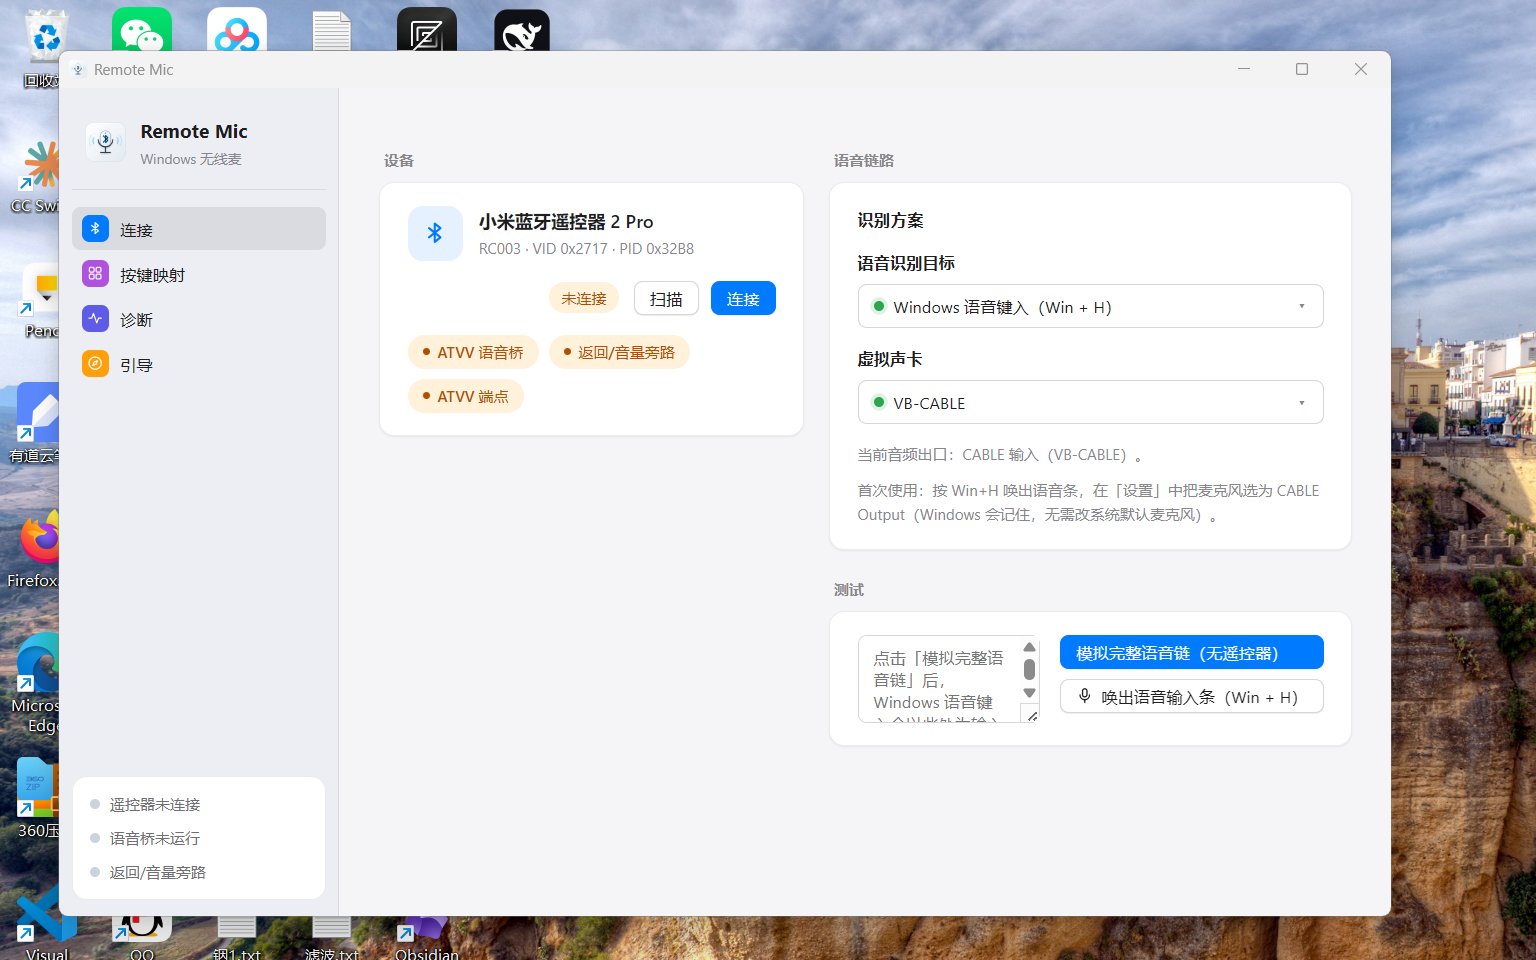
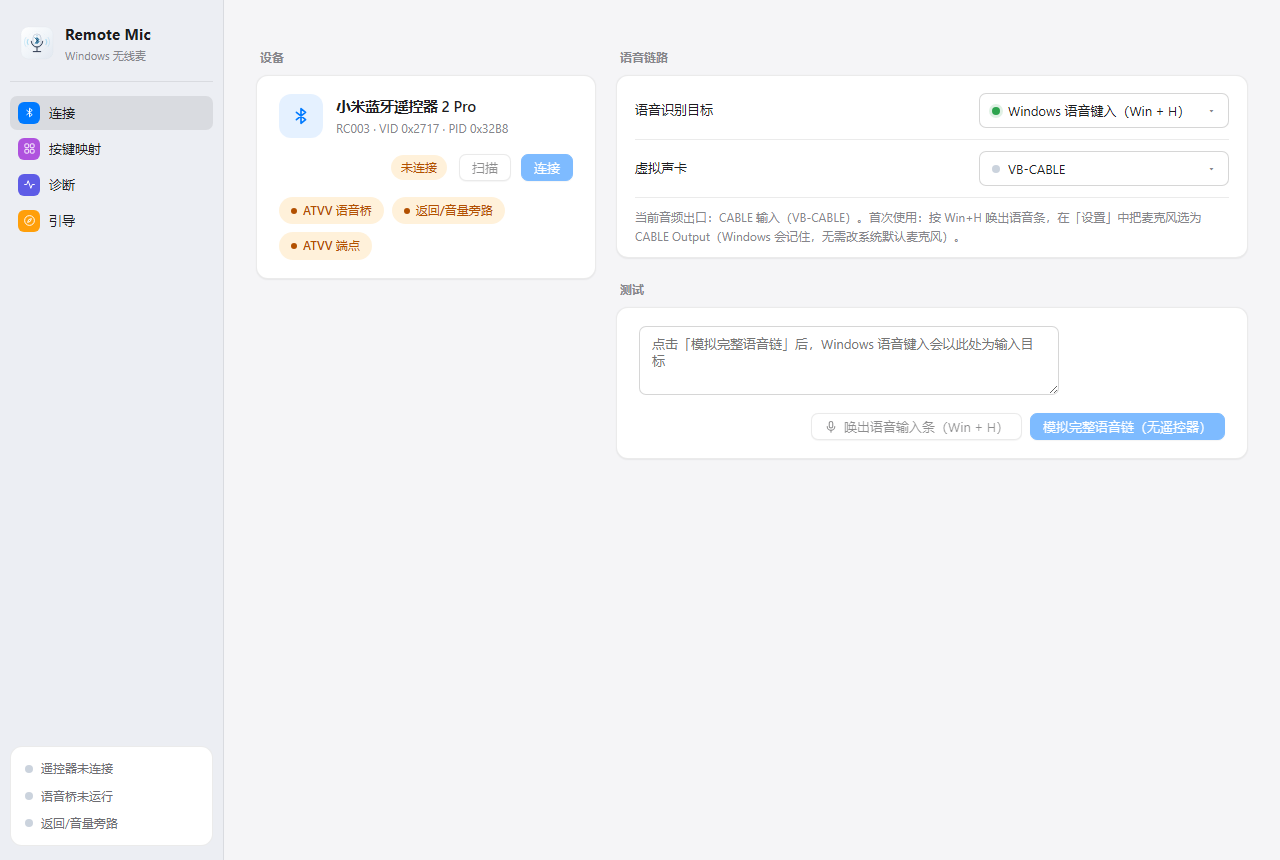
feat: 连接页语音链路改分组行布局,测试卡改上下结构
- 识别方案卡改 macOS 分组行:左标签右控件、细分割线、脚注说明
- 模拟语音链卡改为输入框通栏在上、按钮行右对齐在下
- 移除与分区标签重复的卡片标题

diff --git a/src/pages/ConnectionPage.tsx b/src/pages/ConnectionPage.tsx
@@ -280,11 +280,10 @@ export function ConnectionPage() {
 
       <div className="conn-col">
       <div className="section-label">语音链路</div>
-      <section className="card">
-        <div className="card-title">识别方案</div>
-        <div className="wizard-group">
-          <div className="wizard-label">语音识别目标</div>
-          <div className="status-select" ref={targetRef}>
+      <section className="card form-card">
+        <div className="form-row">
+          <span className="form-label">语音识别目标</span>
+          <div className="status-select form-control" ref={targetRef}>
             <button
               type="button"
               className={`status-select-trigger${targetOpen ? " open" : ""}`}
@@ -322,9 +321,9 @@ export function ConnectionPage() {
         </div>
         {voiceTarget === "windows_voice" && (
           <>
-            <div className="wizard-group">
-              <div className="wizard-label">虚拟声卡</div>
-              <div className="status-select" ref={driverRef}>
+            <div className="form-row">
+              <span className="form-label">虚拟声卡</span>
+              <div className="status-select form-control" ref={driverRef}>
                 <button
                   type="button"
                   className={`status-select-trigger${driverOpen ? " open" : ""}`}
@@ -365,8 +364,7 @@ export function ConnectionPage() {
                 )}
               </div>
             </div>
-            <p className="hint">当前音频出口：{selected}。</p>
-            <p className="hint">首次使用：按 Win+H 唤出语音条，在「设置」中把麦克风选为 CABLE Output（Windows 会记住，无需改系统默认麦克风）。</p>
+            <p className="form-foot">当前音频出口：{selected}。首次使用：按 Win+H 唤出语音条，在「设置」中把麦克风选为 CABLE Output（Windows 会记住，无需改系统默认麦克风）。</p>
           </>
         )}
       </section>
@@ -374,22 +372,22 @@ export function ConnectionPage() {
       {voiceTarget === "windows_voice" && (
         <>
         <div className="section-label">测试</div>
-        <section className="card sim-card">
+        <section className="card">
           <textarea
             ref={simInputRef}
-            className="sim-input"
+            className="sim-input sim-input-wide"
             rows={3}
             placeholder="点击「模拟完整语音链」后，Windows 语音键入会以此处为输入目标"
           />
-          <div className="sim-actions">
+          <div className="sim-actions-row">
+            <button className="btn" onClick={triggerVoiceTyping} disabled={!isTauri()}>
+              <IconMic size={14} />
+              唤出语音输入条（Win + H）
+            </button>
             <button className="btn primary" onClick={runVoiceSimulation} disabled={!isTauri()}>
               {voiceTarget === "windows_voice"
                 ? "模拟完整语音链（无遥控器）"
                 : `模拟 ${imeName}（未接入）`}
-            </button>
-            <button className="btn" onClick={triggerVoiceTyping} disabled={!isTauri()}>
-              <IconMic size={14} />
-              唤出语音输入条（Win + H）
             </button>
           </div>
         </section>

diff --git a/src/App.css b/src/App.css
@@ -246,6 +246,43 @@ button:focus-visible,
   }
 }
 
+/* ---------- 表单分组行（macOS 系统设置式） ---------- */
+.form-card {
+  padding: 6px 18px 10px;
+}
+
+.form-row {
+  display: flex;
+  align-items: center;
+  justify-content: space-between;
+  gap: 16px;
+  padding: 11px 0;
+}
+
+.form-row + .form-row {
+  border-top: 0.5px solid var(--border);
+}
+
+.form-label {
+  font-size: 13px;
+  font-weight: 500;
+  color: var(--text);
+}
+
+.form-control.status-select {
+  width: 250px;
+  max-width: 250px;
+  flex-shrink: 0;
+}
+
+.form-foot {
+  margin: 0;
+  padding-top: 10px;
+  border-top: 0.5px solid var(--border);
+  font-size: 12px;
+  color: var(--text-3);
+}
+
 /* ---------- 拦截开关（macOS 拨动开关） ---------- */
 .eat-card {
   display: flex;
@@ -777,6 +814,18 @@ button:focus-visible,
   display: flex;
   align-items: flex-start;
   gap: 16px;
+}
+
+.sim-input-wide {
+  max-width: none;
+  min-height: 72px;
+}
+
+.sim-actions-row {
+  display: flex;
+  gap: 8px;
+  justify-content: flex-end;
+  margin-top: 12px;
 }
 
 .sim-card .sim-input {
